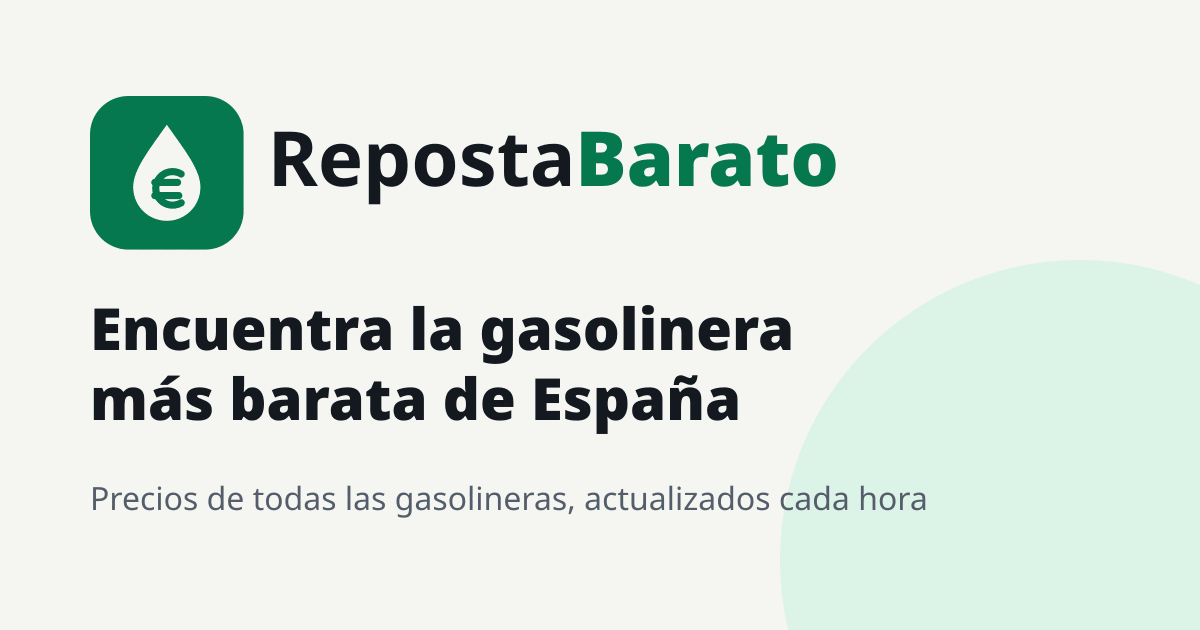
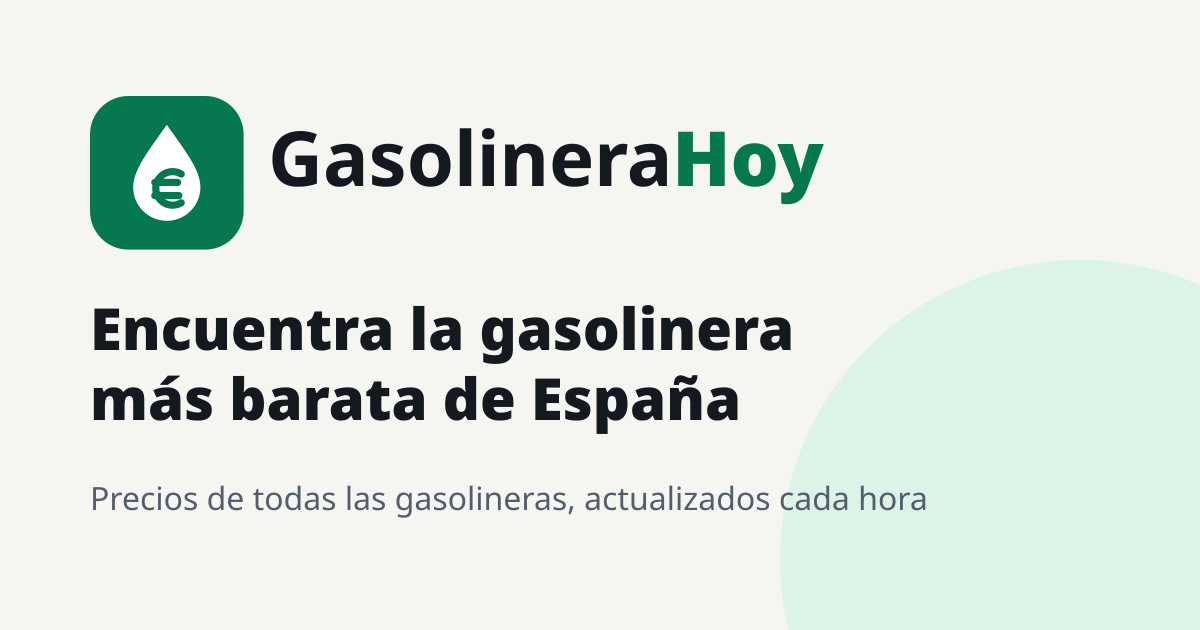
Nombre definitivo: GasolineraHoy (gasolinerahoy.es)

Changed region(s): [[0.2158, 0.2111, 0.7092, 0.3317]]

diff --git a/src/site.config.ts b/src/site.config.ts
@@ -1,7 +1,7 @@
 // Configuración global del sitio. Cambiar aquí el nombre y el dominio definitivos.
 export const SITE = {
-  name: 'RepostaBarato',
-  url: 'https://repostabarato.es', // provisional, sin dominio comprado
+  name: 'GasolineraHoy',
+  url: 'https://gasolinerahoy.es', // dominio elegido (2026-10-26), pendiente de comprar
   lang: 'es-ES',
   description:
     'Precios de la gasolina y el diésel en todas las gasolineras de España, actualizados cada hora con datos oficiales del Ministerio.',

diff --git a/src/styles/global.css b/src/styles/global.css
@@ -1,4 +1,4 @@
-/* Estilos globales de RepostaBarato. CSS propio, móvil primero, con modo oscuro. */
+/* Estilos globales de GasolineraHoy. CSS propio, móvil primero, con modo oscuro. */
 
 :root {
   color-scheme: light dark;

diff --git a/README.md b/README.md
@@ -1,4 +1,4 @@
-# RepostaBarato
+# GasolineraHoy
 
 Web estática con los precios de los carburantes de **todas las gasolineras de España**, por provincia, municipio y estación. Los datos salen de la API pública del Ministerio para la Transición Ecológica (Geoportal de Hidrocarburos), se regeneran **cada hora** con GitHub Actions y se publican en **Cloudflare Pages**. Se financia con **Google AdSense**.
 
@@ -48,13 +48,13 @@ Todo lo de abajo se hace una sola vez. Calcula una tarde, más los días de espe
 
 ### 1. Crear el repositorio en GitHub
 
-1. Crea un repositorio (público o privado) en GitHub, por ejemplo `repostabarato`. En repositorios **públicos** los minutos de Actions son gratis e ilimitados; en privados, el plan gratuito da 2.000 min/mes y el despliegue horario gasta unos 3–4 min por ejecución (~2.500 min/mes), así que **conviene que sea público**.
+1. Crea un repositorio (público o privado) en GitHub, por ejemplo `gasolinerahoy`. En repositorios **públicos** los minutos de Actions son gratis e ilimitados; en privados, el plan gratuito da 2.000 min/mes y el despliegue horario gasta unos 3–4 min por ejecución (~2.500 min/mes), así que **conviene que sea público**.
 2. Sube el código:
    ```sh
    git init -b main
    git add .
    git commit -m "Primera versión"
-   git remote add origin git@github.com:TU_USUARIO/repostabarato.git
+   git remote add origin git@github.com:TU_USUARIO/gasolinerahoy.git
    git push -u origin main
    ```
 3. En **Settings → Actions → General → Workflow permissions** marca **Read and write permissions** (el workflow sube el histórico diario con `git push`).
@@ -64,32 +64,32 @@ Todo lo de abajo se hace una sola vez. Calcula una tarde, más los días de espe
 ### 2. Crear el proyecto en Cloudflare Pages
 
 1. Crea una cuenta gratuita en [Cloudflare](https://dash.cloudflare.com/sign-up).
-2. **Workers y Pages → Crear → Pages → Subir recursos (Direct Upload)**. Ponle de nombre `repostabarato` (si eliges otro, crea en GitHub la variable del repositorio `CF_PAGES_PROJECT` con ese nombre: **Settings → Secrets and variables → Actions → Variables**). Puedes subir cualquier carpeta para crearlo; el primer despliegue real lo hará el workflow.
+2. **Workers y Pages → Crear → Pages → Subir recursos (Direct Upload)**. Ponle de nombre `gasolinerahoy` (si eliges otro, crea en GitHub la variable del repositorio `CF_PAGES_PROJECT` con ese nombre: **Settings → Secrets and variables → Actions → Variables**). Puedes subir cualquier carpeta para crearlo; el primer despliegue real lo hará el workflow.
    - No conectes el repositorio con la integración de Git de Cloudflare: los despliegues los hace GitHub Actions, que es quien descarga los datos cada hora.
 3. Crea un **token de API**: *Mi perfil → Tokens de API → Crear token → Plantilla personalizada* con el permiso **Cuenta → Cloudflare Pages → Editar**, limitado a tu cuenta.
 4. Copia tu **Account ID** (aparece en la barra lateral de *Workers y Pages* o en la URL del panel).
 5. En GitHub, **Settings → Secrets and variables → Actions → New repository secret**, crea:
    - `CLOUDFLARE_API_TOKEN` = el token.
    - `CLOUDFLARE_ACCOUNT_ID` = el Account ID.
-6. Lanza el despliegue a mano: **Actions → Desplegar → Run workflow**. Al terminar, la web estará en `https://repostabarato.pages.dev`. Desde entonces se redespliega sola cada hora (minuto 17) y en cada push a `main`.
+6. Lanza el despliegue a mano: **Actions → Desplegar → Run workflow**. Al terminar, la web estará en `https://gasolinerahoy.pages.dev`. Desde entonces se redespliega sola cada hora (minuto 17) y en cada push a `main`.
 
 Las URL `*.pages.dev` se sirven con `X-Robots-Tag: noindex` (ver `public/_headers`) para que Google solo indexe el dominio propio.
 
 ### 3. Comprar el dominio y conectarlo
 
-1. Compra el dominio (p. ej. `repostabarato.es`). La forma más sencilla es **Cloudflare Registrar** (*Gestión de dominios → Registrar dominios*), a precio de coste; ten en cuenta que Cloudflare Registrar no vende todos los TLD (para `.es` puede que tengas que usar otro registrador como DonDominio, Arsys o Namecheap y luego cambiar los DNS a Cloudflare).
+1. Compra el dominio (p. ej. `gasolinerahoy.es`). La forma más sencilla es **Cloudflare Registrar** (*Gestión de dominios → Registrar dominios*), a precio de coste; ten en cuenta que Cloudflare Registrar no vende todos los TLD (para `.es` puede que tengas que usar otro registrador como DonDominio, Arsys o Namecheap y luego cambiar los DNS a Cloudflare).
 2. Si lo compras fuera: en Cloudflare, **Añadir un dominio**, plan Free, y cambia en tu registrador los servidores DNS por los dos que te indique Cloudflare. Espera a que el dominio aparezca como *Activo*.
-3. En el proyecto de Pages: **Dominios personalizados → Configurar un dominio** → `repostabarato.es`. Añade también `www.repostabarato.es` y crea una **regla de redirección** (*Reglas → Redirect Rules*, plantilla «Redirect from WWW to root») para que `www` redirija con 301 al dominio sin `www`.
-4. Si el dominio no es `repostabarato.es`, cámbialo en:
+3. En el proyecto de Pages: **Dominios personalizados → Configurar un dominio** → `gasolinerahoy.es`. Añade también `www.gasolinerahoy.es` y crea una **regla de redirección** (*Reglas → Redirect Rules*, plantilla «Redirect from WWW to root») para que `www` redirija con 301 al dominio sin `www`.
+4. Si el dominio no es `gasolinerahoy.es`, cámbialo en:
    - `src/site.config.ts` → `url` (y `name` si cambia la marca).
    - `public/robots.txt` → línea `Sitemap:`.
    Haz push y espera al despliegue.
 
 ### 4. Google Search Console
 
-1. Entra en [Search Console](https://search.google.com/search-console) → **Añadir propiedad → Dominio** → `repostabarato.es`.
+1. Entra en [Search Console](https://search.google.com/search-console) → **Añadir propiedad → Dominio** → `gasolinerahoy.es`.
 2. Verifica con el registro **TXT** que te da Google: en Cloudflare, *DNS → Registros → Añadir registro* tipo TXT en `@`. (Search Console también puede hacerlo automáticamente con Cloudflare.)
-3. **Sitemaps → Añadir** `https://repostabarato.es/sitemap-index.xml`. El índice enlaza a varios sitemaps (gasolineras, provincias y municipios, y páginas sueltas), con un máximo de 10.000 URL cada uno.
+3. **Sitemaps → Añadir** `https://gasolinerahoy.es/sitemap-index.xml`. El índice enlaza a varios sitemaps (gasolineras, provincias y municipios, y páginas sueltas), con un máximo de 10.000 URL cada uno.
 4. Revisa en unos días **Páginas** (indexación) y **Experiencia → Core Web Vitals**. Es normal que Google tarde semanas en indexar todas las fichas.
 
 ### 5. Solicitar AdSense
@@ -99,12 +99,12 @@ Antes de solicitarlo:
 - Espera a que el dominio propio lleve unos días funcionando e indexándose.
 
 Después:
-1. Entra en [AdSense](https://adsense.google.com/) con tu cuenta de Google, **Sitios → Añadir sitio** → `repostabarato.es`.
+1. Entra en [AdSense](https://adsense.google.com/) con tu cuenta de Google, **Sitios → Añadir sitio** → `gasolinerahoy.es`.
 2. AdSense te pedirá verificar el sitio. Elige el método **ads.txt** o el **fragmento de código**:
    - Copia tu ID de editor (`pub-XXXXXXXXXXXXXXXX`, en *Cuenta → Información de la cuenta*).
    - En `src/site.config.ts` pon `adsenseClient: 'ca-pub-XXXXXXXXXXXXXXXX'` (con el prefijo `ca-`). Con eso `<Seo>` añade en todas las páginas el script de AdSense y la meta `google-adsense-account`, y `<AdSlot>` empieza a pintar los huecos de anuncios.
    - En `public/ads.txt` quita la `#` de la última línea y pon tu ID (`google.com, pub-XXXXXXXXXXXXXXXX, DIRECT, f08c47fec0942fa0`).
-   - Haz push, espera al despliegue y comprueba que `https://repostabarato.es/ads.txt` muestra la línea.
+   - Haz push, espera al despliegue y comprueba que `https://gasolinerahoy.es/ads.txt` muestra la línea.
 3. Pulsa **Solicitar revisión**. Suele tardar de unos días a dos semanas. Entretanto los huecos pueden salir vacíos (tienen la altura reservada para que la página no salte cuando lleguen los anuncios).
 4. Cuando lo aprueben:
    - Opcional: en **Anuncios → Por bloque de anuncio** crea tres bloques *display* adaptables (arriba, entre contenido, abajo) y pon sus IDs en `AD_UNITS` de `src/components/ads/AdSlot.astro`. Si no, los huecos funcionan sin ID de bloque.
@@ -115,7 +115,7 @@ Después:
 Para mostrar anuncios personalizados a usuarios del EEE, Reino Unido y Suiza, Google exige una **plataforma de gestión del consentimiento (CMP) certificada e integrada en el TCF de IAB Europe**. La propia de Google es gratuita y es la que dan por supuesta las páginas legales:
 
 1. En AdSense: **Privacidad y mensajes → Normativas europeas → Crear mensaje**.
-2. Selecciona el sitio `repostabarato.es`, idioma **español**, y en *Política de privacidad* pon `https://repostabarato.es/privacidad/`.
+2. Selecciona el sitio `gasolinerahoy.es`, idioma **español**, y en *Política de privacidad* pon `https://gasolinerahoy.es/privacidad/`.
 3. **Activa la opción «No consentir»** (botón de rechazo en la primera capa). La AEPD exige que rechazar sea tan fácil como aceptar. Deja desactivada la opción de «Cerrar sin consentir» si no la necesitas.
 4. Deja activado el **enlace o botón para volver a abrir las opciones de privacidad** («Privacy and cookie settings»). Además, la página `/cookies/` tiene un botón que reabre el mensaje (`googlefc.showRevocationMessage()`).
 5. Revisa la lista de proveedores (puedes dejar los de Google y los habituales del TCF) y **Publica**.
@@ -126,7 +126,7 @@ Si algún día cambias de proveedor de anuncios o añades analítica, actualiza 
 
 ### 7. Comprobaciones finales
 
-- `https://repostabarato.es/robots.txt`, `/ads.txt` y `/sitemap-index.xml` responden bien.
+- `https://gasolinerahoy.es/robots.txt`, `/ads.txt` y `/sitemap-index.xml` responden bien.
 - La pestaña **Actions** muestra una ejecución verde cada hora. Si la API del Ministerio falla, el build usa la última descarga guardada (caché de Actions) y no se rompe.
 - En [PageSpeed Insights](https://pagespeed.web.dev/) una ficha de gasolinera y una de municipio dan buen CLS con anuncios activos.
 

diff --git a/PLAN.md b/PLAN.md
@@ -1,4 +1,4 @@
-# Plan de trabajo — RepostaBarato
+# Plan de trabajo — GasolineraHoy
 
 Web estática (Astro 7) con los precios de todas las gasolineras de España. Los datos salen de la API oficial del Ministerio, se regeneran cada hora (GitHub Actions) y se publican en Cloudflare Pages. Se monetiza con AdSense.
 
